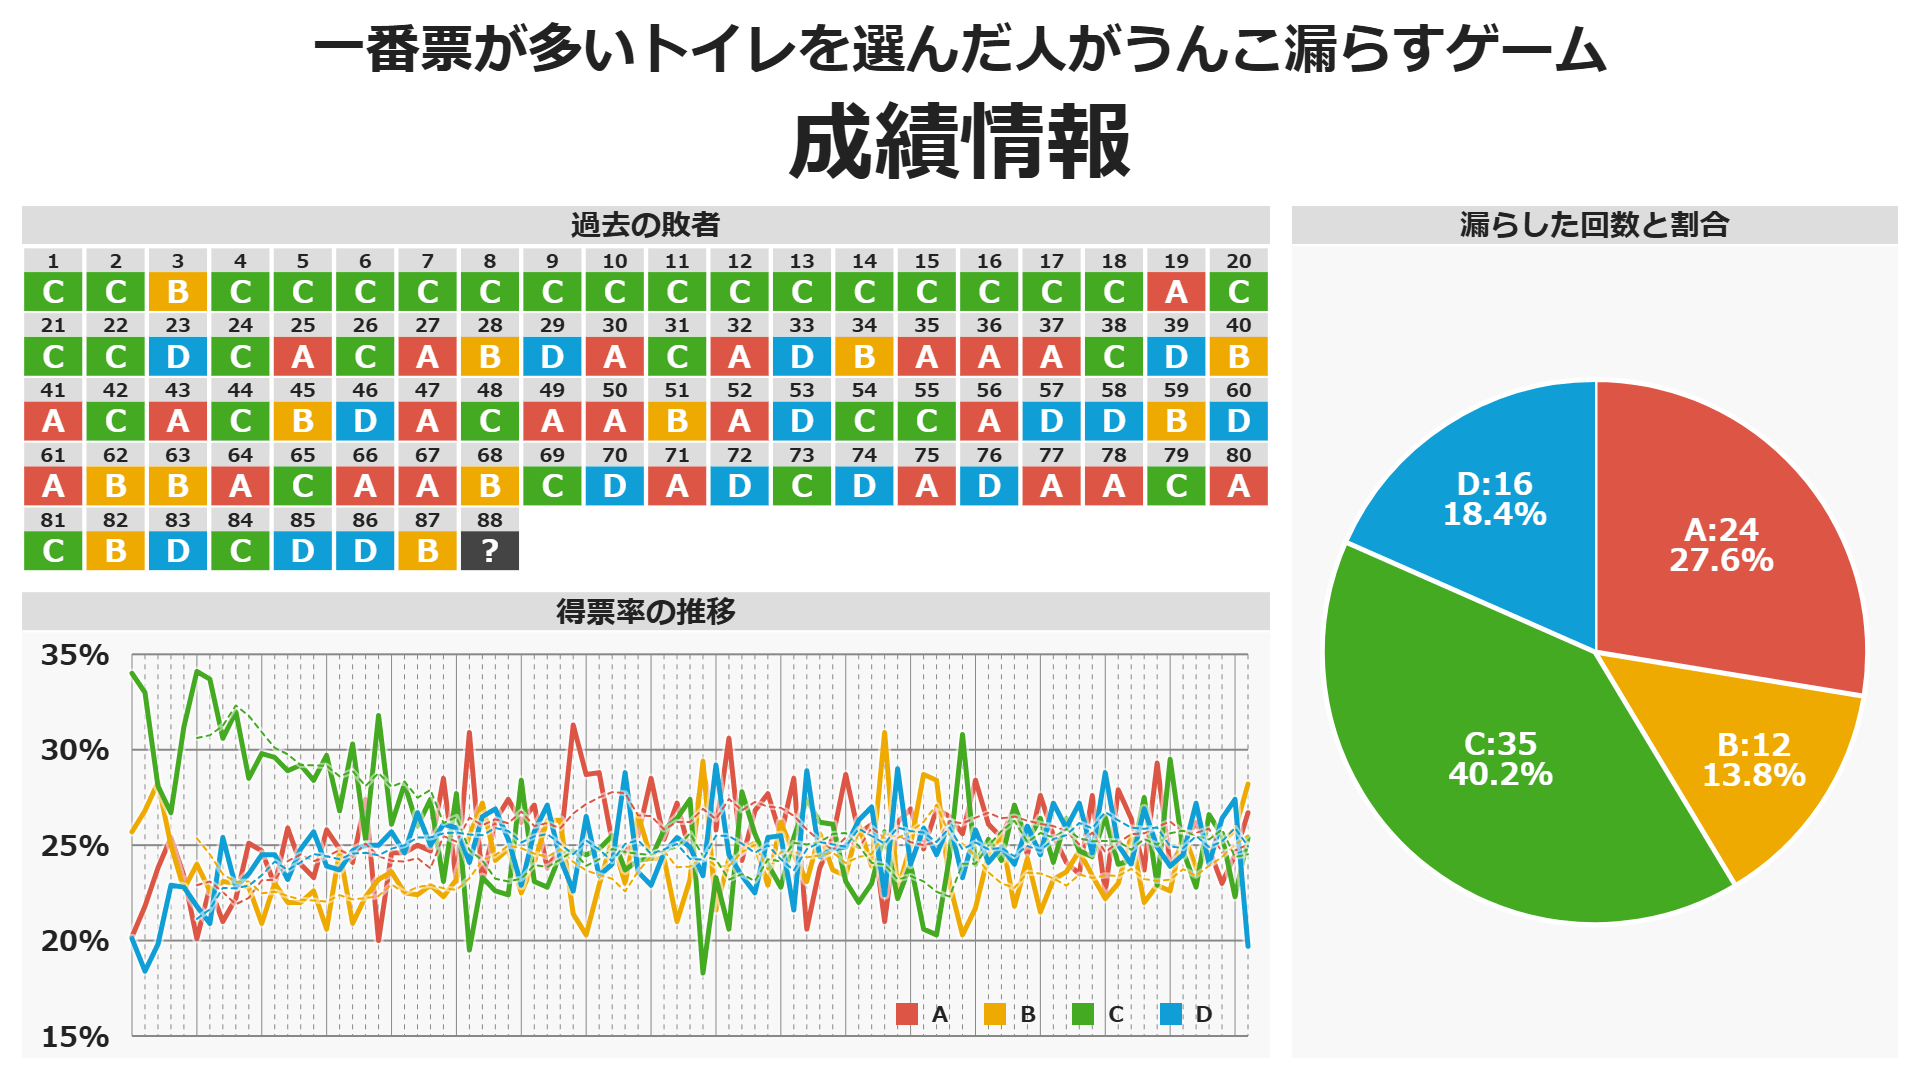
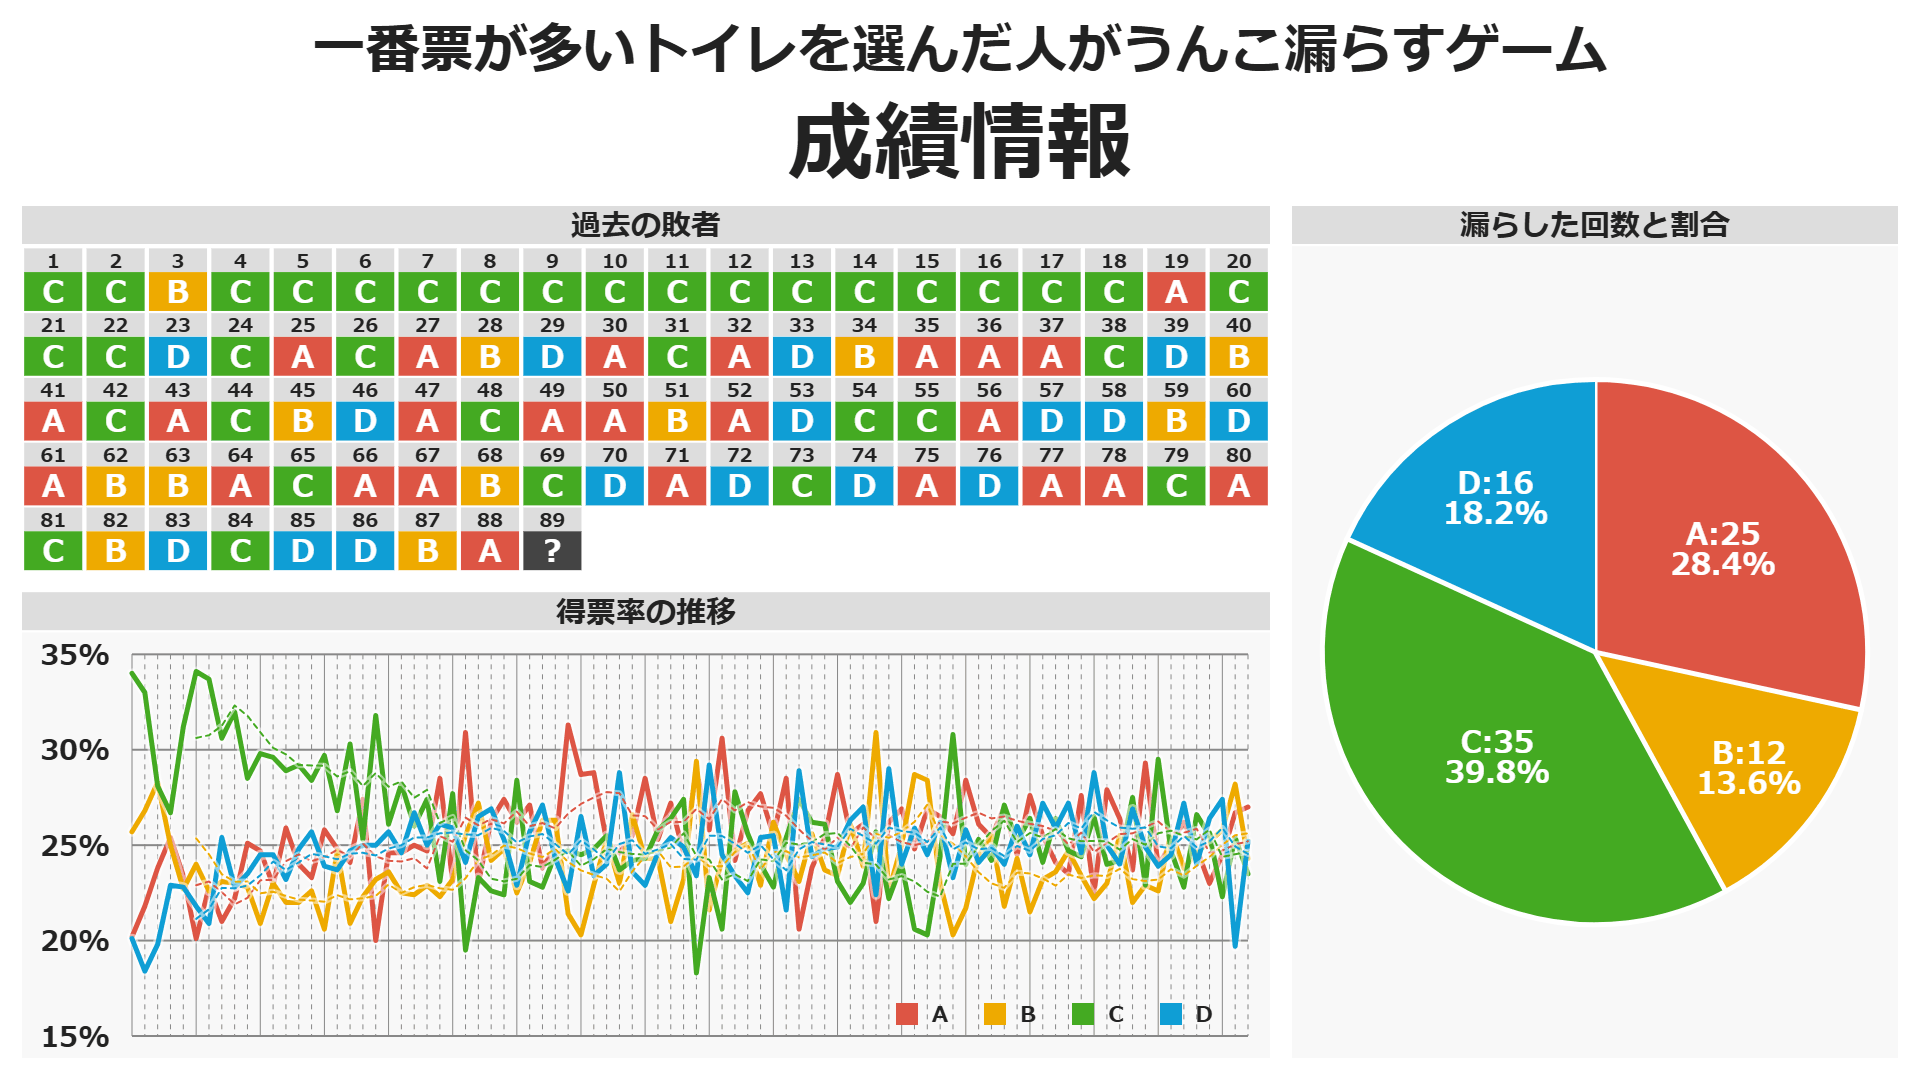
update

diff --git a/docs/index.html b/docs/index.html
@@ -12,7 +12,7 @@
     <meta property="og:url" content="https://shapoco.github.io/toilet-game/" />
     <meta property="og:title" content="4択トイレゲーム" />
     <meta property="og:description" content="一番票が多いトイレを選んだ人がうんこ漏らすゲーム" />
-    <meta property="og:image" content="https://shapoco.github.io/toilet-game/cover.png?20250726183500" />
+    <meta property="og:image" content="https://shapoco.github.io/toilet-game/cover.png?20250803000400" />
     
     <link rel="icon" href="https://shapoco.github.io/favicon192.png" sizes="192x192">
     <link rel="apple-touch-icon" href="https://shapoco.github.io/apple-touch-icon180.png" sizes="180x180">
@@ -36,8 +36,8 @@
     <style>
     </style>
     
-    <link rel="stylesheet" href="./style.css?20250726183500">
-    <script src="./toilet_game.js?20250726183500"></script>
+    <link rel="stylesheet" href="./style.css?20250803000400">
+    <script src="./toilet_game.js?20250803000400"></script>
 
     <title>4択トイレゲーム</title>
   </head>

diff --git a/docs/work.html b/docs/work.html
@@ -12,7 +12,7 @@
     <meta property="og:url" content="https://shapoco.github.io/toilet-game/" />
     <meta property="og:title" content="4択トイレゲーム" />
     <meta property="og:description" content="一番票が多いトイレを選んだ人がうんこ漏らすゲーム" />
-    <meta property="og:image" content="https://shapoco.github.io/toilet-game/cover.png?20250726183500" />
+    <meta property="og:image" content="https://shapoco.github.io/toilet-game/cover.png?20250803000400" />
     
     <link rel="icon" href="https://shapoco.github.io/favicon192.png" sizes="192x192">
     <link rel="apple-touch-icon" href="https://shapoco.github.io/apple-touch-icon180.png" sizes="180x180">
@@ -33,8 +33,8 @@
       }
     </script>
 
-    <link rel="stylesheet" href="./style.css?20250726183500">
-    <script src="./toilet_game.js?20250726183500"></script>
+    <link rel="stylesheet" href="./style.css?20250803000400">
+    <script src="./toilet_game.js?20250803000400"></script>
 
     <title>4択トイレゲーム</title>
   </head>

diff --git a/docs/toilet_game.js b/docs/toilet_game.js
@@ -89,6 +89,7 @@ const DB = [
   { date: '2025-07-05', total: 444, percent: [23, 25.2, 25.5, 26.4], url: 'https://x.com/shapoco/status/1941503820259000524' },
   { date: '2025-07-12', total: 493, percent: [24.5, 25.8, 22.3, 27.4], url: 'https://x.com/shapoco/status/1944046345133895686' },
   { date: '2025-07-20', total: 386, percent: [26.7, 28.2, 25.4, 19.7], url: 'https://x.com/shapoco/status/1946592287846547619' },
-  { date: '2025-07-27', total: 0, percent: null, url: null },
+  { date: '2025-07-26', total: 571, percent: [27, 24.3, 23.5, 25.2], url: 'https://x.com/shapoco/status/1949041815174488151' },
+  { date: '2025-08-03', total: 0, percent: null, url: null }
   //{ date: '2025-xx-xx', total: 0, percent: null, url: null },
 ];
